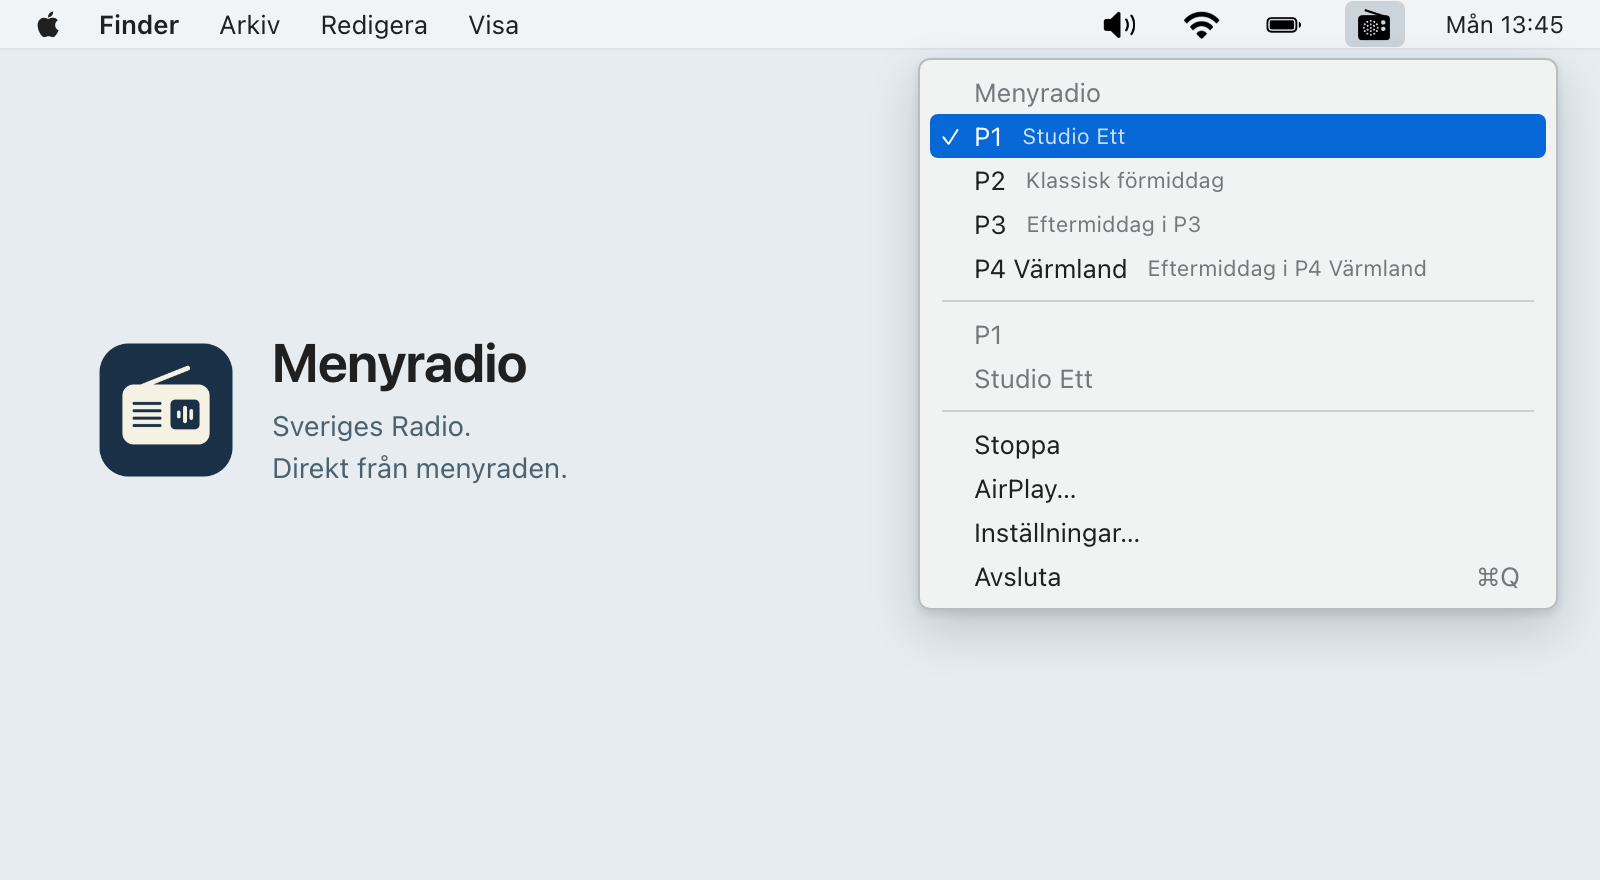
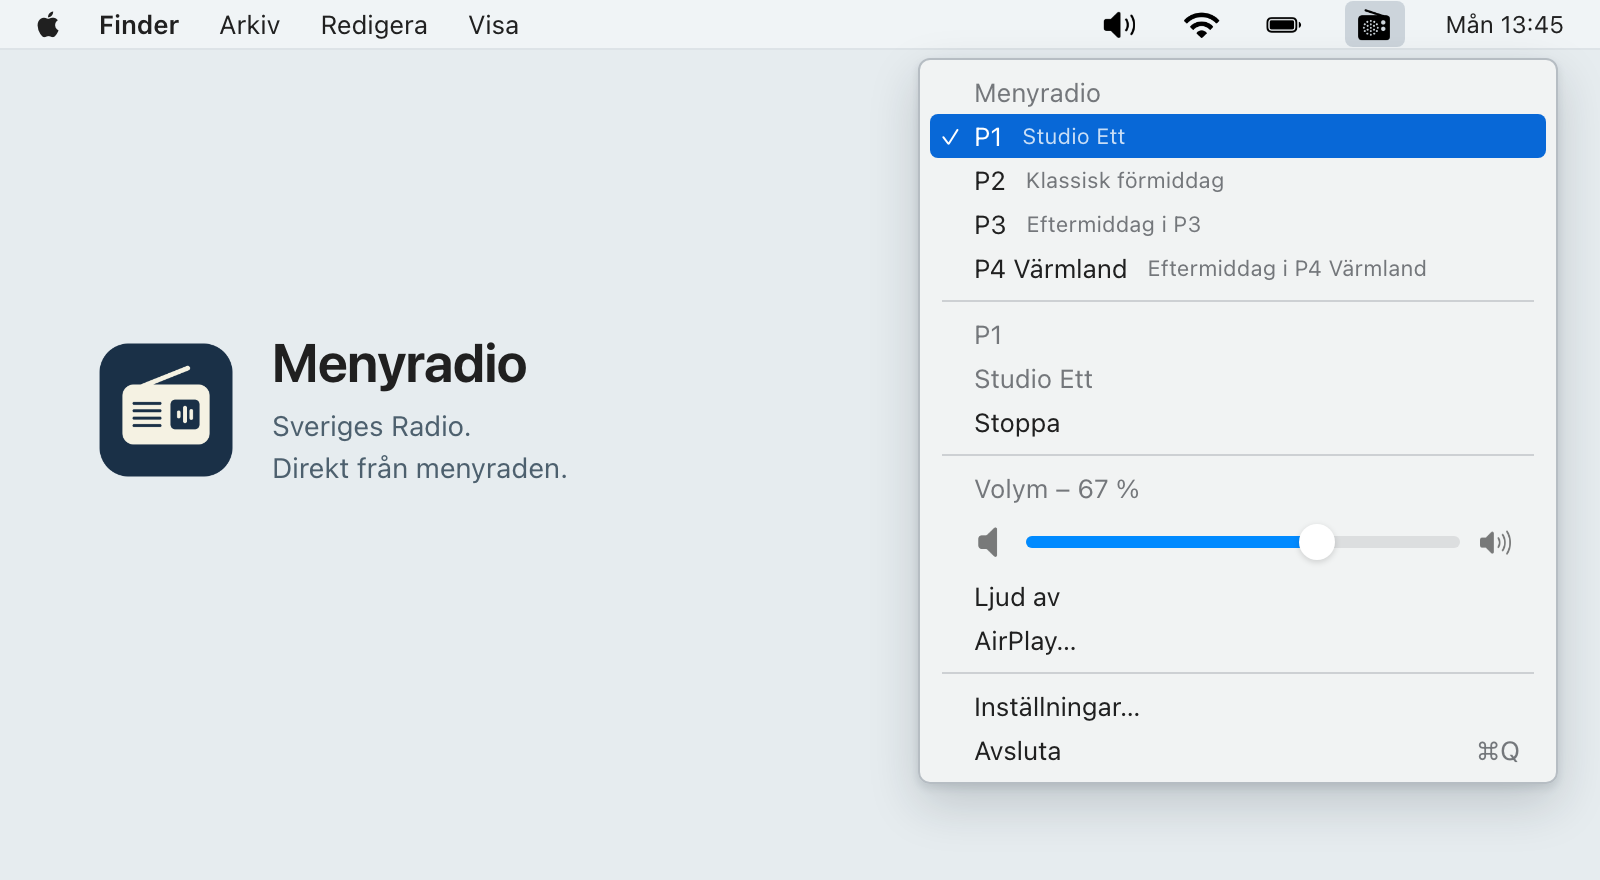
Update README preview for volume controls

Changed region(s): [[0.5625, 0.4602, 0.9688, 0.767], [0.5625, 0.7977, 0.9688, 0.9205], [0.9062, 0.8284, 0.9375, 0.8591]]

diff --git a/docs/images/menu-preview.html b/docs/images/menu-preview.html
@@ -22,6 +22,11 @@ body { background: #e6ecef; color: #202020; font: 13px -apple-system, BlinkMacSy
 .check { position: absolute; left: 5px; font-size: 12px; }
 .separator { height: 1px; background: #cdd0d3; margin: 5px 6px; }
 .shortcut { margin-left: auto; color: #74777b; }
+.volume { height: 32px; display: flex; align-items: center; gap: 8px; padding: 0 15px 0 20px; }
+.volume img { width: 20px; height: 18px; opacity: .5; object-fit: contain; }
+.track { flex: 1; height: 6px; position: relative; border-radius: 3px; background: #dcdedf; }
+.level { width: 67%; height: 100%; border-radius: 3px; background: #008aff; }
+.knob { position: absolute; left: 67%; top: 50%; width: 18px; height: 18px; transform: translate(-50%, -50%); background: white; border-radius: 50%; box-shadow: 0 1px 3px #00000026; }
 .brand { position: absolute; left: 45px; top: 165px; display: flex; align-items: center; gap: 15px; }
 .brand img { width: 76px; height: 76px; }
 h1 { margin: 0 0 6px; font-size: 27px; letter-spacing: -.5px; font-weight: 650; }
@@ -46,9 +51,13 @@ h1 { margin: 0 0 6px; font-size: 27px; letter-spacing: -.5px; font-weight: 650; 
  <div class="separator"></div>
  <div class="row disabled">P1</div>
  <div class="row disabled">Studio Ett</div>
- <div class="separator"></div>
  <div class="row">Stoppa</div>
+ <div class="separator"></div>
+ <div class="row disabled">Volym – 67 %</div>
+ <div class="volume"><img src="speaker.fill.png" alt="Låg volym"><div class="track"><div class="level"></div><div class="knob"></div></div><img src="speaker.wave.3.fill.png" alt="Hög volym"></div>
+ <div class="row">Ljud av</div>
  <div class="row">AirPlay…</div>
+ <div class="separator"></div>
  <div class="row">Inställningar…</div>
  <div class="row">Avsluta<span class="shortcut">⌘Q</span></div>
 </div>

diff --git a/scripts/export-menu-symbols.swift b/scripts/export-menu-symbols.swift
@@ -2,7 +2,7 @@
 import AppKit
 import Foundation
 let directory = URL(fileURLWithPath: FileManager.default.currentDirectoryPath).appendingPathComponent("docs/images")
-for name in ["radio.fill", "wifi", "battery.100", "speaker.wave.2.fill"] {
+for name in ["radio.fill", "wifi", "battery.100", "speaker.wave.2.fill", "speaker.fill", "speaker.wave.3.fill"] {
     let size = NSSize(width: 24, height: 20)
     let bitmap = NSBitmapImageRep(bitmapDataPlanes: nil, pixelsWide: 72, pixelsHigh: 60,
                                   bitsPerSample: 8, samplesPerPixel: 4, hasAlpha: true,

diff --git a/README.md b/README.md
@@ -4,7 +4,7 @@ Sveriges Radio, right in your Mac's menu bar.
 
 Menyradio is a small radio app for listening while you work. Click the radio icon, choose a channel, and keep listening when you close the menu.
 
-<img src="docs/images/menu-preview.png" width="800" alt="Menyradio: P1, P2, P3 and a P4 favourite with current programme names beside each channel, plus Stop, AirPlay, Settings and Quit.">
+<img src="docs/images/menu-preview.png" width="800" alt="Menyradio: P1, P2, P3 and a P4 favourite with current programme names beside each channel, plus Stop, a volume slider, mute, AirPlay, Settings and Quit.">
 
 
 ## What it does
